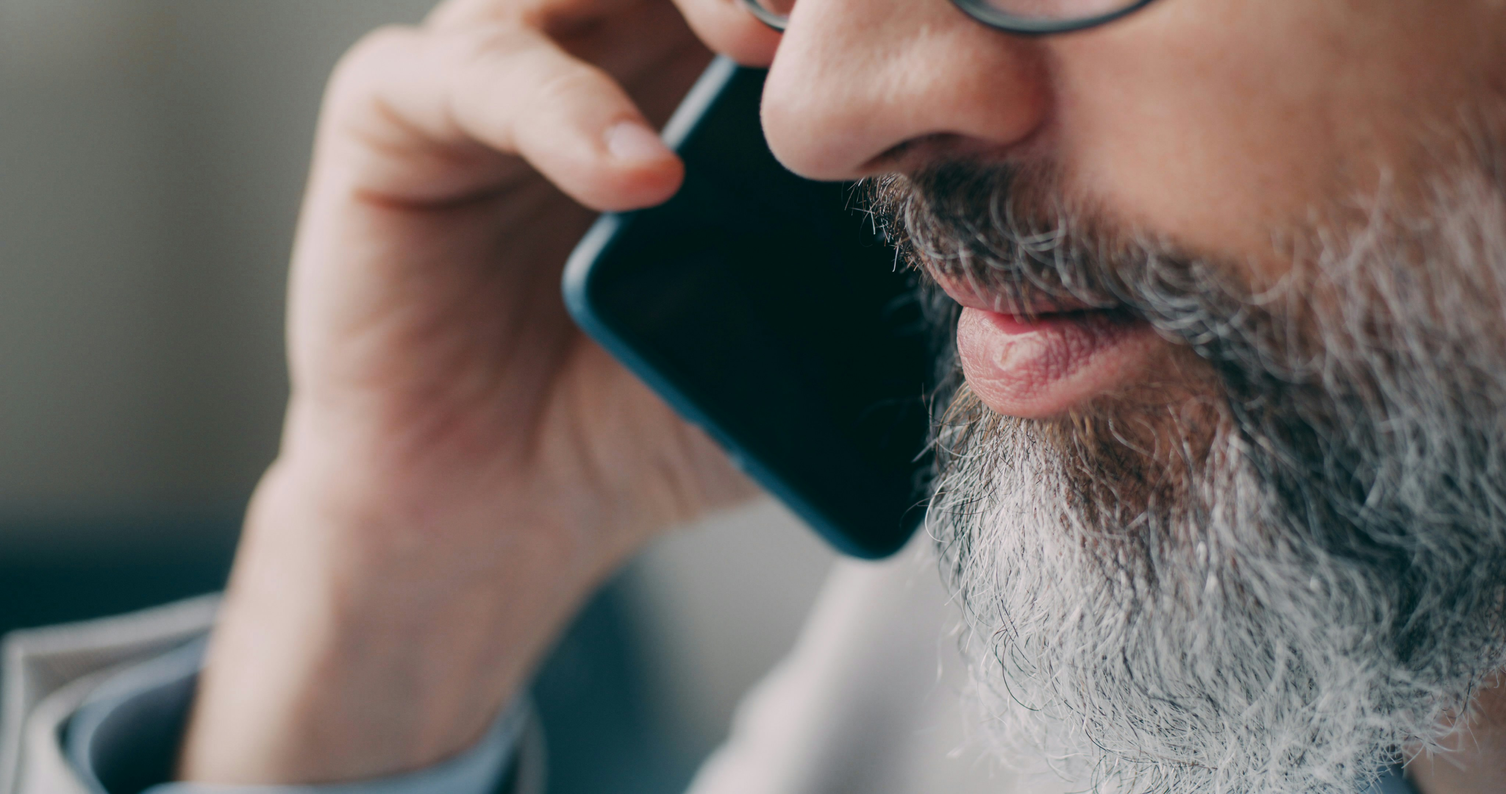
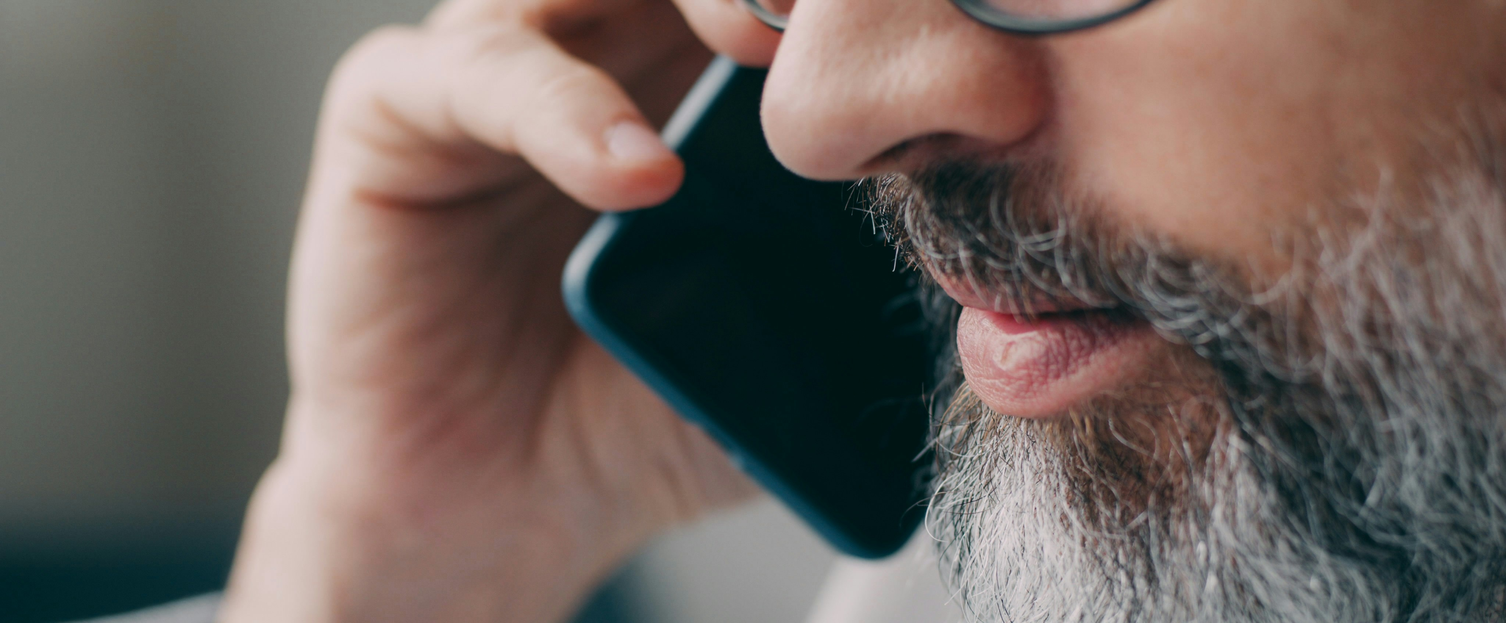
updates-03

diff --git a/resources/views/contact-us.blade.php b/resources/views/contact-us.blade.php
@@ -73,13 +73,14 @@
 									</div>
 								</div>
 								<div class="pbmit-ihbox-contents">
-									<h2 class="pbmit-element-title">South Africa</h2>
-									<div class="pbmit-heading-desc">28 Lemoendoring Street, Weltevredenpark, 1709, Johannesburg, South Africa</div>
-									<div class="pbmit-heading-desc">25 Trichy Road, Pietermaritzburg, 3201, KwaZulu-Natal, South Africa</div>
+									<h2 class="pbmit-element-title">Johannesburg</h2>
+									<div class="pbmit-heading-desc">28 Lemoendoring Street, Weltevredenpark, 1709</div>
+									<h2 class="pbmit-element-title">KwaZulu-Natal</h2>
+									<div class="pbmit-heading-desc">25 Trichy Road, Pietermaritzburg, 3201</div>
 									<h2 class="pbmit-element-title">Democratic Republic of Congo (DRC)</h2>
-									<div class="pbmit-heading-desc">34778, Av John Kalala, C/Annexe, V/Lubumbashie, Katanga, DRC</div>
+									<div class="pbmit-heading-desc">34778, Av John Kalala, C/Annexe, V/Lubumbashie, Katanga</div>
 									<h2 class="pbmit-element-title">Ghana</h2>
-									<div class="pbmit-heading-desc">35 HFC Estate, Community 25, Tema, Ghana</div>
+									<div class="pbmit-heading-desc">35 HFC Estate, Community 25, Tema</div>
 								</div><br>
 								<!--<div class="pbmit-ihbox-contents">
 									<h2 class="pbmit-element-title">Democratic Republic of Congo (DRC)</h2>
@@ -201,6 +202,123 @@
 			</div>
 		</section>
 		<!-- Contact Form End -->
+		<!-- Client Start -->
+		<section>
+			<div class="container">
+				<div class="client-area">
+					<div class="row">
+						<div class="col-md-9">
+							<div class="swiper-slider" data-autoplay="true" data-loop="true" data-dots="false" data-arrows="false" data-columns="5" data-margin="30" data-effect="slide">					
+								<div class="swiper-wrapper">
+									<!-- Slide1 -->
+									<article class="pbmit-client-style-1 swiper-slide">
+										<div class="pbmit-border-wrapper">
+											<div class="pbmit-client-wrapper pbmit-client-with-hover-img">
+												<h4 class="pbmit-hide">Client-01</h4>
+												<div class="pbmit-client-hover-img">
+													<img src="images/client/client-global-06.png" alt>
+												</div>
+												<div class="pbmit-featured-img-wrapper">
+													<div class="pbmit-featured-wrapper">
+														<img src="images/client/client-dark-06.png" class="img-fluid" alt="">
+													</div>
+												</div>
+											</div>
+										</div>
+									</article>
+									<!-- Slide2 -->
+									<article class="pbmit-client-style-1 swiper-slide">
+										<div class="pbmit-border-wrapper">
+											<div class="pbmit-client-wrapper pbmit-client-with-hover-img">
+												<h4 class="pbmit-hide">Client-01</h4>
+												<div class="pbmit-client-hover-img">
+													<img src="images/client/client-global-05.png" alt>
+												</div>
+												<div class="pbmit-featured-img-wrapper">
+													<div class="pbmit-featured-wrapper">
+														<img src="images/client/client-dark-05.png" class="img-fluid" alt="">
+													</div>
+												</div>
+											</div>
+										</div>
+									</article>
+									<!-- Slide3 -->
+									<article class="pbmit-client-style-1 swiper-slide">
+										<div class="pbmit-border-wrapper">
+											<div class="pbmit-client-wrapper pbmit-client-with-hover-img">
+												<h4 class="pbmit-hide">Client-01</h4>
+												<div class="pbmit-client-hover-img">
+													<img src="images/client/client-global-04.png" alt>
+												</div>
+												<div class="pbmit-featured-img-wrapper">
+													<div class="pbmit-featured-wrapper">
+														<img src="images/client/client-dark-04.png" class="img-fluid" alt="">
+													</div>
+												</div>
+											</div>
+										</div>
+									</article>
+									<!-- Slide4 -->
+									<article class="pbmit-client-style-1 swiper-slide">
+										<div class="pbmit-border-wrapper">
+											<div class="pbmit-client-wrapper pbmit-client-with-hover-img">
+												<h4 class="pbmit-hide">Client-01</h4>
+												<div class="pbmit-client-hover-img">
+													<img src="images/client/client-global-03.png" alt>
+												</div>
+												<div class="pbmit-featured-img-wrapper">
+													<div class="pbmit-featured-wrapper">
+														<img src="images/client/client-dark-03.png" class="img-fluid" alt="">
+													</div>
+												</div>
+											</div>
+										</div>
+									</article>
+									<!-- Slide5 -->
+									<article class="pbmit-client-style-1 swiper-slide">
+										<div class="pbmit-border-wrapper">
+											<div class="pbmit-client-wrapper pbmit-client-with-hover-img">
+												<h4 class="pbmit-hide">Client-01</h4>
+												<div class="pbmit-client-hover-img">
+													<img src="images/client/client-global-02.png" alt>
+												</div>
+												<div class="pbmit-featured-img-wrapper">
+													<div class="pbmit-featured-wrapper">
+														<img src="images/client/client-dark-02.png" class="img-fluid" alt="">
+													</div>
+												</div>
+											</div>
+										</div>
+									</article>
+									<!-- Slide6 -->
+									<article class="pbmit-client-style-1 swiper-slide">
+										<div class="pbmit-border-wrapper">
+											<div class="pbmit-client-wrapper pbmit-client-with-hover-img">
+												<h4 class="pbmit-hide">Client-01</h4>
+												<div class="pbmit-client-hover-img">
+													<img src="images/client/client-global-01.png" alt>
+												</div>
+												<div class="pbmit-featured-img-wrapper">
+													<div class="pbmit-featured-wrapper">
+														<img src="images/client/client-dark-01.png" class="img-fluid" alt="">
+													</div>
+												</div>
+											</div>
+										</div>
+									</article>
+								</div>
+							</div>
+						</div>
+						<div class="col-md-3">
+							<div class="client-custom-heading">
+								<h2 class="pbmit-title"> Partners We Trust</h2>
+							</div>
+						</div>
+					</div>
+				</div>
+			</div>
+		</section>
+		<!-- Client End -->
 
 		<section class="iframe-section">
 			<div class="container-fluid p-0">
@@ -209,19 +327,10 @@
 				</div>
 			</div>
 		</section>
-		<!-- Iframe Start -->
-<iframe src="" width="600" height="450" style="border:0;" allowfullscreen="" loading="lazy" referrerpolicy="strict-origin-when-cross-origin"></iframe>
-		<!-- Iframe End -->
 
-	<!-- Contact Us Content End -->
-	
+		<!-- Contact Us Content End -->
 	</div>
-	<!-- Contact Us Content End -->
-   </div>
-   <!-- Page Wrapper End -->
-
-
-
+   	<!-- Page Wrapper End -->
 
 @include('layouts.footer')
 @endsection

diff --git a/resources/views/layouts/top-layout.blade.php b/resources/views/layouts/top-layout.blade.php
@@ -119,7 +119,7 @@
                                                             </ul>
                                                         </li>
                                                         <li>
-                                                            <a href="/about-us">About</a></li>
+                                                            <a href="/about-us">About Us</a></li>
                                                         </li>
                                                         <li>
                                                             <a href="/contact-us">Contact Us</a>

diff --git a/resources/views/about-us.blade.php b/resources/views/about-us.blade.php
@@ -122,10 +122,10 @@
 	<!-- About Start -->
 
 	<!-- Service Details --> 
-	<section class="site-content service-details">
+	<section class="section-xl pt-0">
 		<div class="container">
 			<div class="row">
-				<div class="col-md-9 service-left-col" id="primary">
+				<div class="col-12 service-left-col" id="primary">
 					<div class="pbmit-entry-content">
 						<div class="pbmit-custom-heading">
 							<h3 class="pbmit-title">Core Environmental & Water Resource Services</h3>
